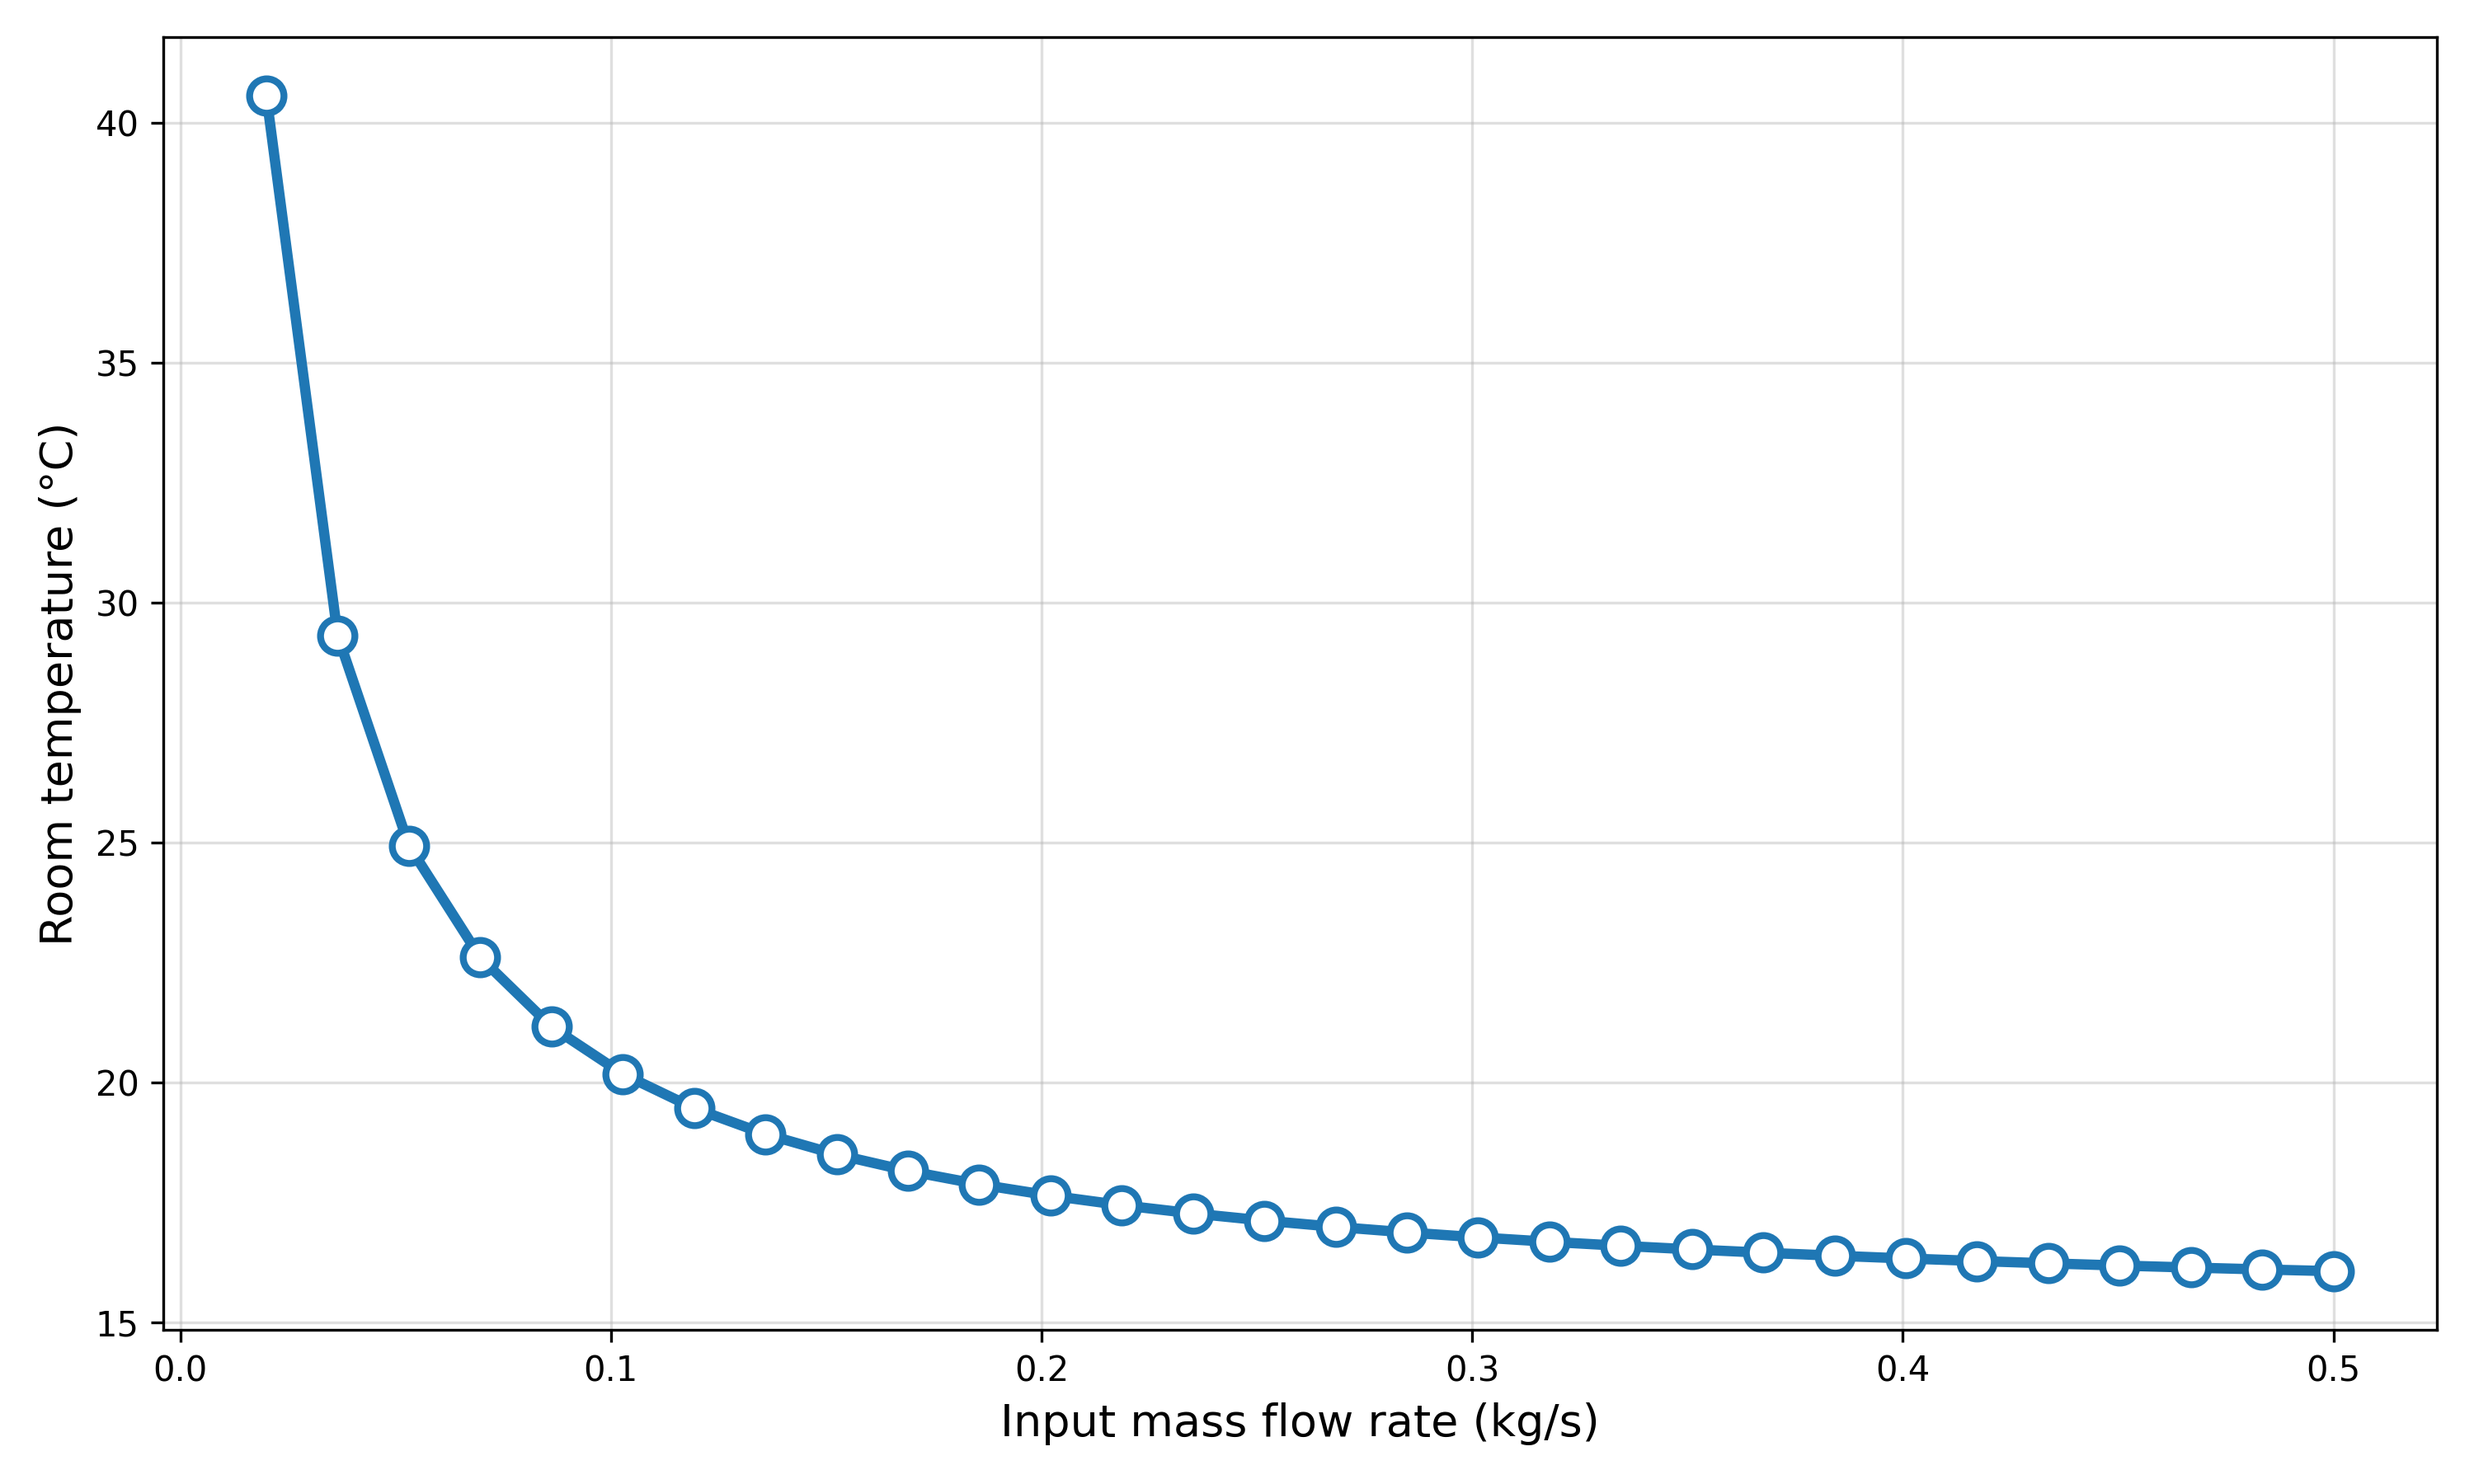
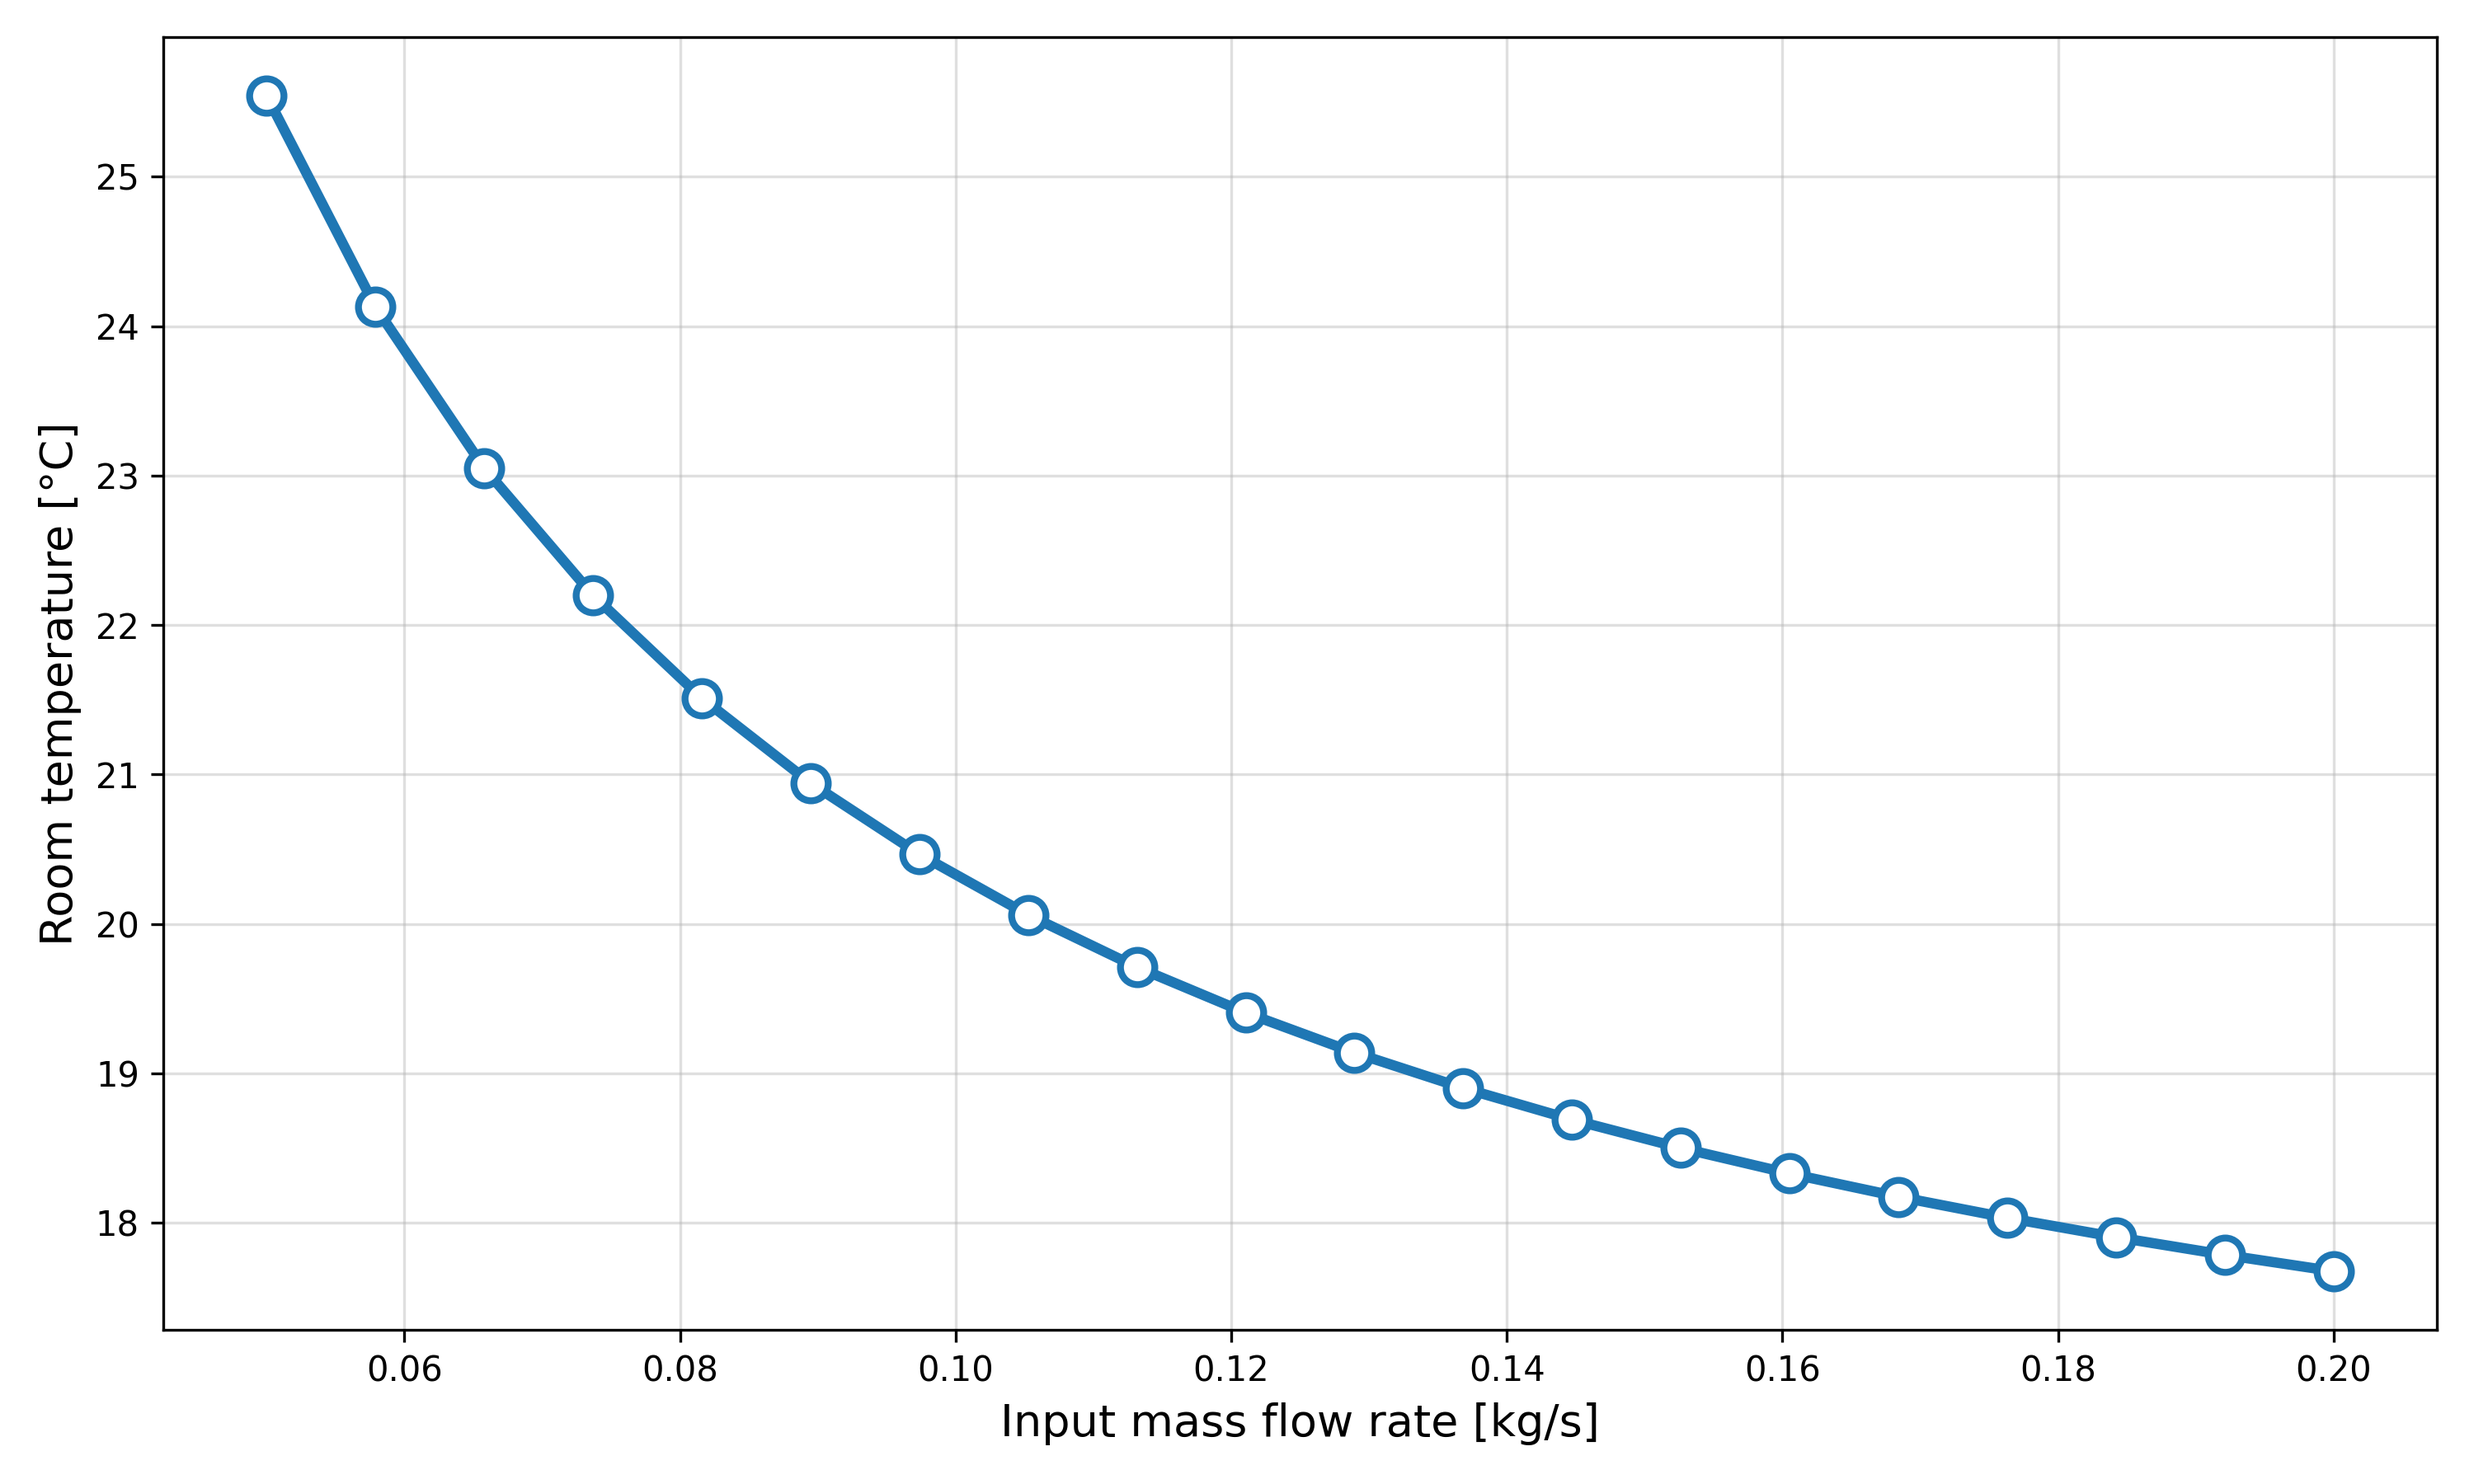
Final version

diff --git a/HeatingAndVentilatilationModel/analyzer.py b/HeatingAndVentilatilationModel/analyzer.py
@@ -6,12 +6,12 @@ from OMPython import ModelicaSystem
 model_file = "HeatingAndVentilationModel.mo"
 model_name = "HeatingAndVentilationModel"
 
-m_flow_values = np.linspace(0.02, 0.5, 30)
+m_flow_values = np.linspace(0.05, 0.2, 20)
 temperatures = []
 
 mod = ModelicaSystem(model_file, model_name)
 for i, m_flow in enumerate(m_flow_values):
-    print(f"Run {i+1:02d}/10 → Source.m_flow = {m_flow:.3f} kg/s")
+    print(f"Run {i+1:02d}/20 -> Source.m_flow = {m_flow:.3f} kg/s")
 
     mod.setParameters({"Source.m_flow": m_flow})
 
